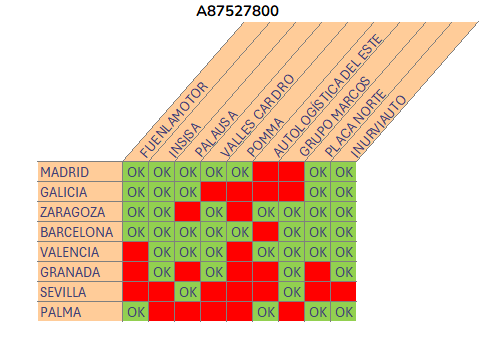
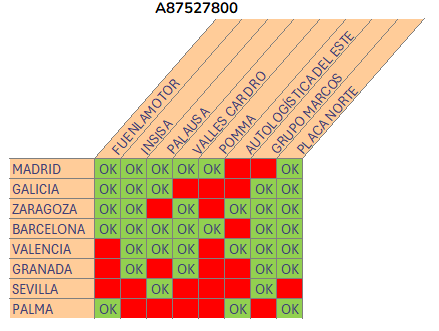
Actualiza la versión del script CESIONESADV y modifica la imagen de placas externas en el modal de asignación.

diff --git a/js/cesionesADV.js b/js/cesionesADV.js
@@ -736,5 +736,5 @@ $$('form')[0].addEventListener('keyup',(e)=>{
 })
 
 $('openAssignPicture').addEventListener('click',()=>{
-  modal(`<div style="text-align:center"><img src="./../img/placasExternas.png?1004" /></div>`,"Cesiones dsiponibles entre placas externas")
+  modal(`<div style="text-align:center"><img src="./../img/placasExternas.png?1005" /></div>`,"Cesiones dsiponibles entre placas externas")
 })

diff --git a/helper/head.php b/helper/head.php
@@ -15,7 +15,7 @@ $scripts = (object)[
   'CESIONES1' => "/js/cesiones202312.js?1235",
   'EXTBRAND' => "/../js/extBrand.js?101",
   'CESIONESALL' => "/js/cesionesAll.js?210",
-  'CESIONESADV' => "/js/cesionesADV.js?256",
+  'CESIONESADV' => "/js/cesionesADV.js?257",
   'BUSCAR' => "/../js/buscarCesiones.js?109",
   'READY' => "/../js/readyCesiones.js?109",
   'STATUS' => "/../js/statusCesiones.js?106",
